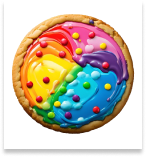
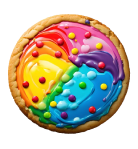
beter skin upgrade

diff --git a/yo.js b/yo.js
@@ -72,6 +72,7 @@ let image = document.getElementById("koekje");
 let audio = document.getElementById("eetGeluid");
 
     koekje.addEventListener("click", function () {
+    // 0 omdat je het geluid kan spammen
     audio.currentTime = 0;
     audio.play();
 });
@@ -136,29 +137,37 @@ executePeriodically();
 function gold() {
     aantalkoekjes += 1000;
 }
+
 // eventlisteren om code uit te voeren
 goudenkoekje.addEventListener('click', gold);
 
-      // Functie om een koopknop toe te voegen voor het wijzigen van de afbeeldingen
-      function buyImageUpgrade() {
-        let koekje = document.getElementById("koekje");
-        if (aantalkoekjes >= 1000) {
-          koekje.src = "media/fotos/regenboog.png"; // Verander de afbeelding naar een chocoladekoekje
-          aantalkoekjes -= 1000; // Verminder het aantal koekjes met de kosten van de upgrade
-          updateKoekjes(); // Update het aantal koekjes op het scherm
-        } else {
-          alert("Te weinig koekjes om te kopen");
-        }
-      }
+let gekocht = false;
+let regenboogPrijs = 1000;
 
-      // eventlisteneren om code uittevoeren met klik
-      document.getElementById("buyUpgradeButton").addEventListener("click", buyImageUpgrade);
+// Functie om een koopknop toe te voegen voor het wijzigen van de afbeeldingen
+function buyImageUpgrade() {
+    let koekje = document.getElementById("koekje");
+    if (!gekocht && aantalkoekjes >= regenboogPrijs) {
+        koekje.src = "media/fotos/regenboogshadow.png"; 
+        aantalkoekjes -= regenboogPrijs; 
+        updateKoekjes(); 
+        gekocht = true;
+    } else if (gekocht) {
+        koekje.src = "media/fotos/regenboogshadow.png"; // Als de afbeelding al is gekocht, zet het gewoon naar regenboog afbeelding
+    } else {
+        alert("Te weinig koekjes om te kopen");
+    }
+}
 
-      // Functie om de afbeelding terug te veranderen naar de standaardafbeelding
-      function resetCookieImage() {
-        let koekje = document.getElementById("koekje");
-        koekje.src = "media/fotos/koek.png"; // Verander de afbeelding terug naar de standaardafbeelding
-      }
+// eventlisteneren om code uit te voeren met klik
+document.getElementById("buyUpgradeButton").addEventListener("click", buyImageUpgrade);
 
-      // Voeg event listeners toe aan de knoppen
-      document.getElementById("resetImageButton").addEventListener("click", resetCookieImage);
+// Functie om de afbeelding terug te veranderen naar de standaardafbeelding
+function resetCookieImage() {
+    let koekje = document.getElementById("koekje");
+    koekje.src = "media/fotos/koek.png";
+}
+
+// Voeg event listeners toe aan de knoppen
+
+resetImageButton.addEventListener('click', resetCookieImage);

diff --git a/index.html b/index.html
@@ -19,7 +19,11 @@
       <!-- Sectie met koekje erin -->
       <section id="eerste">
         <img id="koekje" src="media/fotos/koek.png" alt="koekje" />
-        <img id="goudenkoekje" src="media/fotos/gold-removebg-preview.png" alt="Your Photo">
+        <img
+          id="goudenkoekje"
+          src="media/fotos/gold-removebg-preview.png"
+          alt="Your Photo"
+        />
       </section>
       <!-- Footer met upgrades -->
       <footer class="tweede">
@@ -42,19 +46,33 @@
         <!-- regenboog skin -->
         <div>
           <h3>Regenboog skin</h3>
-          <h3>
-            <img class="minikoek" src="media/fotos/koek.png" alt="minikoek" />1000
+          <h3 id="regenboogPreis">
+            <img
+              class="minikoek"
+              src="media/fotos/koek.png"
+              alt="minikoek"
+            />1000
           </h3>
-          <img id="buyUpgradeButton" src="media/fotos/Rectangle13.png" alt="klik" />
-          <button id="resetImageButton">Default skin</button>
-        </div> 
+          <img
+            id="buyUpgradeButton"
+            src="media/fotos/Rectangle13.png"
+            alt="klik"
+          />
+        </div>
+        <!-- default skin -->
+        <div>
+          <h3>Default skin</h3>
+          <h3 id="regenboogPreis">Gratis</h3>
+          <img
+            id="resetImageButton"
+            src="media/fotos/koekskin.png"
+            alt="klik"
+          />
+        </div>
       </footer>
       <!-- audios -->
       <audio id="shopify" src="media/pingpong.mp3"></audio>
-      <audio
-          id="eetGeluid"
-          src="media/hap.mp3"
-        ></audio>
+      <audio id="eetGeluid" src="media/hap.mp3"></audio>
     </main>
     <script src="yo.js"></script>
   </body>

diff --git a/style.css b/style.css
@@ -99,7 +99,7 @@ h3 {
     }
 }
 
-/* powerklik foto */
+/* powerklik upgrade fotos. ja ik heb 4x dezelde css */
 #klikUpgrade {
     width: 200px;
     cursor: pointer;
@@ -123,8 +123,7 @@ h3 {
     border-radius: 15px;
 }
 
-/* allesin1 */
-.allesin1 {
+#resetImageButton {
     width: 200px;
     cursor: pointer;
     touch-action: manipulation;
